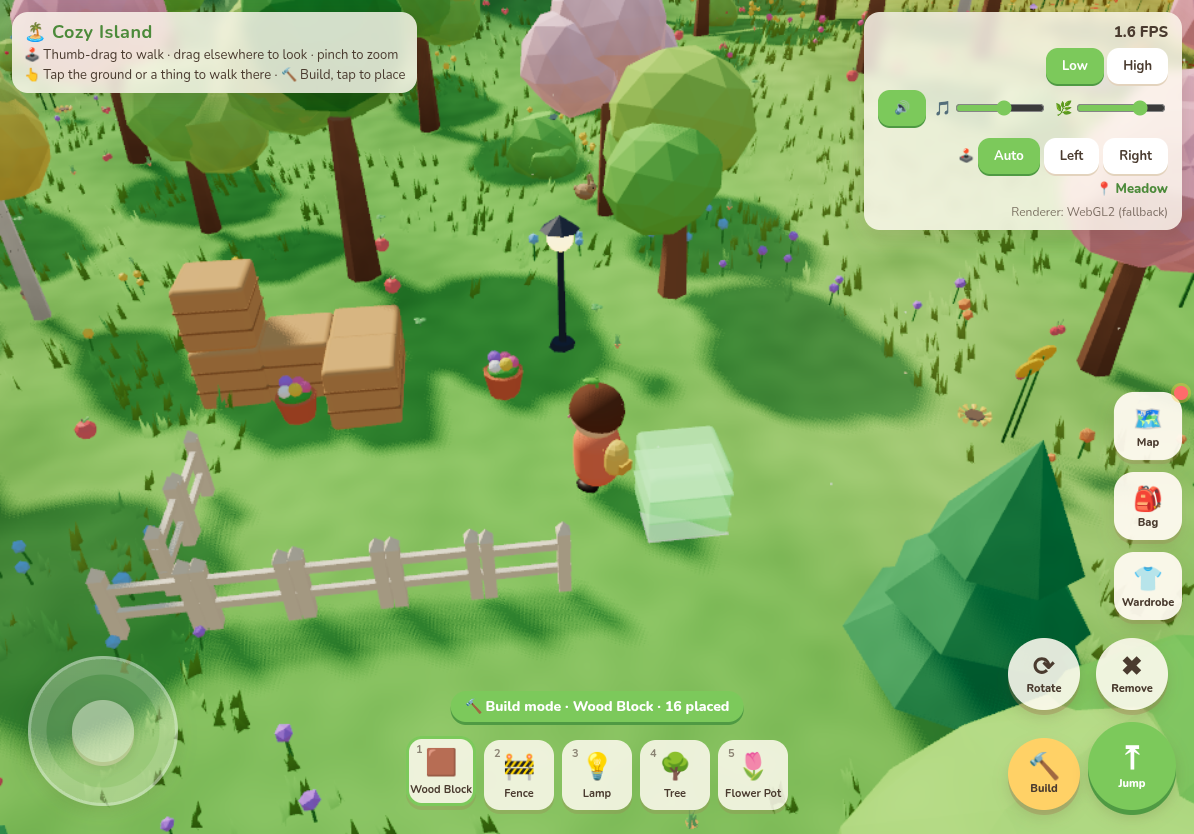
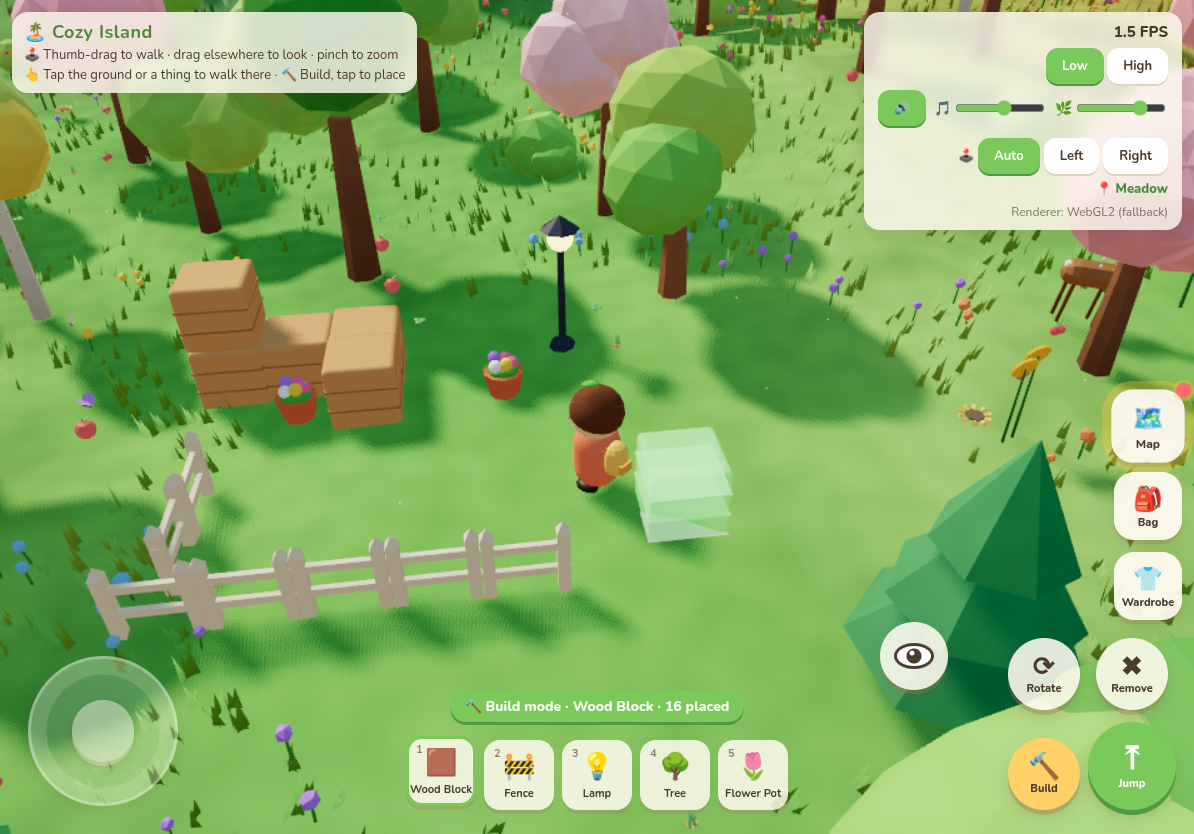
iPad: eye (free look) button: press + drag anywhere to orbit, eased orbit, mirrors with handedness; joystick unchanged

diff --git a/src/ui/TouchControls.ts b/src/ui/TouchControls.ts
@@ -21,6 +21,7 @@ export class TouchControls {
     this.root.className = 'touch-ui';
     this.root.innerHTML = `
       <div class="stick"><div class="knob"></div></div>
+      <button class="eye-btn" aria-label="Look around (hold and drag)"><span class="eye-ball"><span class="eye-pupil"></span></span></button>
       <div class="tbtns">
         <button class="tbtn rotate" aria-label="Rotate piece">⟳<span>Rotate</span></button>
         <button class="tbtn remove" aria-label="Remove mode">✖<span>Remove</span></button>
@@ -52,6 +53,37 @@ export class TouchControls {
       requestAnimationFrame(draw);
     };
     requestAnimationFrame(draw);
+
+    // Eye (free look): press the eye, then drag anywhere to orbit the camera; release ends it.
+    // It owns its own pointer (captured), so it works alongside the joystick thumb and never becomes a tap/pinch.
+    const eye = this.root.querySelector<HTMLElement>('.eye-btn')!;
+    const pupil = eye.querySelector<HTMLElement>('.eye-pupil')!;
+    let eyeId = -1, ex = 0, ey = 0, sx = 0, sy = 0;
+    const EYE_GAIN = 1.25;
+    eye.addEventListener('pointerdown', (e) => {
+      e.preventDefault(); e.stopPropagation();
+      if (eyeId !== -1) return;
+      eyeId = e.pointerId; ex = sx = e.clientX; ey = sy = e.clientY;
+      try { eye.setPointerCapture(e.pointerId); } catch { /* ignore */ }
+      eye.classList.add('down');
+      this.input.eyeLook = true;
+    });
+    eye.addEventListener('pointermove', (e) => {
+      if (e.pointerId !== eyeId) return;
+      e.preventDefault();
+      this.input.dragDX += (e.clientX - ex) * EYE_GAIN;
+      this.input.dragDY += (e.clientY - ey) * EYE_GAIN;
+      ex = e.clientX; ey = e.clientY;
+      // the pupil glances the way you're looking
+      const dx = e.clientX - sx, dy = e.clientY - sy, d = Math.hypot(dx, dy) || 1, k = Math.min(1, d / 40) * 7;
+      pupil.style.transform = `translate(calc(-50% + ${(dx / d) * k}px), calc(-50% + ${(dy / d) * k}px))`;
+    });
+    const eyeUp = (e: PointerEvent) => {
+      if (e.pointerId !== eyeId) return;
+      eyeId = -1; eye.classList.remove('down'); this.input.eyeLook = false;
+      pupil.style.transform = '';
+    };
+    eye.addEventListener('pointerup', eyeUp); eye.addEventListener('pointercancel', eyeUp); eye.addEventListener('lostpointercapture', eyeUp);
 
     // Buttons fire on pointerdown for responsiveness.
     const tap = (el: HTMLElement, fn: () => void) => el.addEventListener('pointerdown', (e) => {

diff --git a/src/ui/hud.css b/src/ui/hud.css
@@ -248,3 +248,20 @@ body.touch .hand-row { display: flex; }
 /* ---------- cave fade ---------- */
 .cave-fade { position: fixed; inset: 0; background: #06050a; opacity: 0; pointer-events: none; z-index: 40; transition: opacity .38s cubic-bezier(.4,0,.2,1); }
 .cave-fade.on { opacity: 1; }
+
+/* ---------- eye (free look) button, iPad ---------- */
+.eye-btn { position: absolute; pointer-events: auto; touch-action: none; -webkit-user-select: none; user-select: none; cursor: grab;
+  right: calc(max(24px, env(safe-area-inset-right)) + 222px); bottom: calc(max(24px, env(safe-area-inset-bottom)) + 120px);
+  width: 68px; height: 68px; border-radius: 50%; border: 0; padding: 0; display: flex; align-items: center; justify-content: center;
+  background: rgba(255,250,240,.88); box-shadow: 0 4px 0 rgba(160,120,80,.35), 0 8px 16px rgba(80,50,20,.16);
+  transition: transform .18s var(--spring, ease), box-shadow .18s ease, background .18s ease; }
+.eye-btn::after { content: ''; position: absolute; inset: -10px; border-radius: 50%; } /* bigger hit target */
+.eye-ball { position: relative; width: 40px; height: 26px; border-radius: 50% / 50%; background: #fff; border: 3px solid #4a3b2f; overflow: hidden; }
+.eye-pupil { position: absolute; left: 50%; top: 50%; width: 15px; height: 15px; border-radius: 50%; background: #4a3b2f; transform: translate(-50%, -50%);
+  box-shadow: inset 3px -3px 0 rgba(255,255,255,.0); transition: transform .12s ease-out; }
+.eye-pupil::after { content: ''; position: absolute; left: 3px; top: 2px; width: 5px; height: 5px; border-radius: 50%; background: #fff; }
+.eye-btn.down { transform: scale(1.12); background: #ffd166; box-shadow: 0 2px 0 rgba(160,120,80,.35), 0 0 0 6px rgba(255,209,102,.35); cursor: grabbing; }
+.eye-btn.down .eye-pupil { transition: none; }
+/* mirror for right-handed play (joystick on the right): the look thumb is the left one */
+body[data-hand="right"] .eye-btn { right: auto; left: calc(max(24px, env(safe-area-inset-left)) + 40px); bottom: calc(max(24px, env(safe-area-inset-bottom)) + 150px); }
+.touch-ui.building .eye-btn { bottom: calc(max(24px, env(safe-area-inset-bottom)) + 120px); }

diff --git a/src/player/CameraRig.ts b/src/player/CameraRig.ts
@@ -15,6 +15,8 @@ export class CameraRig implements System {
   distance = 9;
   target = new THREE.Vector3();
   sensitivity = 1;
+  private pendYaw = 0;
+  private pendPitch = 0;
   locked = false; // when true, screenshot/debug code drives the camera
 
   constructor(public camera: THREE.PerspectiveCamera, private input: Input, private player: Player) {
@@ -24,8 +26,15 @@ export class CameraRig implements System {
   update(dt: number) {
     if (this.locked) return;
     const i = this.input;
-    this.yaw -= i.dragDX * 0.005 * this.sensitivity;
-    this.pitch = THREE.MathUtils.clamp(this.pitch + i.dragDY * 0.004 * this.sensitivity, 0.05, 1.35);
+    // eased orbit: drags feed a pending amount that the camera glides through (no jitter from uneven touch events)
+    this.pendYaw -= i.dragDX * 0.005 * this.sensitivity;
+    this.pendPitch += i.dragDY * 0.004 * this.sensitivity;
+    const k = 1 - Math.exp(-dt * 22);
+    const sy = this.pendYaw * k, sp = this.pendPitch * k;
+    this.pendYaw -= sy; this.pendPitch -= sp;
+    this.yaw += sy;
+    this.pitch = THREE.MathUtils.clamp(this.pitch + sp, 0.05, 1.35);
+    if (this.pitch <= 0.05 || this.pitch >= 1.35) this.pendPitch = 0;
     if (i.keys.has('z')) this.yaw += dt * 1.8;
     if (i.keys.has('c')) this.yaw -= dt * 1.8;
     this.distance = THREE.MathUtils.clamp(this.distance * (1 + i.wheel * 0.1) / i.pinch, 3.5, 28);

diff --git a/src/core/Input.ts b/src/core/Input.ts
@@ -38,6 +38,8 @@ export class Input {
   hand: Handedness = 'auto';
   /** touch-first: canvas touches can become the floating joystick */
   floatingStick = false;
+  /** the on-screen eye (free look) button is held */
+  eyeLook = false;
   private stickPtr: Ptr | null = null;
   private ptrs = new Map<number, Ptr>();
   private pinchDist = 0;
@@ -45,6 +47,7 @@ export class Input {
 
   constructor(private el: HTMLElement) {
     try { const h = localStorage.getItem(HAND_KEY); if (h === 'left' || h === 'right' || h === 'auto') this.hand = h; } catch { /* private mode */ }
+    document.body.dataset.hand = this.hand;
     window.addEventListener('keydown', (e) => {
       if ((e.target as HTMLElement)?.tagName === 'INPUT') return;
       const k = e.key.toLowerCase();
@@ -122,7 +125,7 @@ export class Input {
     if (this.hand === 'right') return x >= w * 0.5;
     return y > h * 0.4;
   }
-  setHand(h: Handedness) { this.hand = h; try { localStorage.setItem(HAND_KEY, h); } catch { /* ignore */ } }
+  setHand(h: Handedness) { this.hand = h; document.body.dataset.hand = h; try { localStorage.setItem(HAND_KEY, h); } catch { /* ignore */ } }
   private moveStick(sp: Ptr, x: number, y: number) {
     const u = this.stickUi;
     sp.moved += Math.abs(x - sp.x) + Math.abs(y - sp.y); sp.x = x; sp.y = y;
